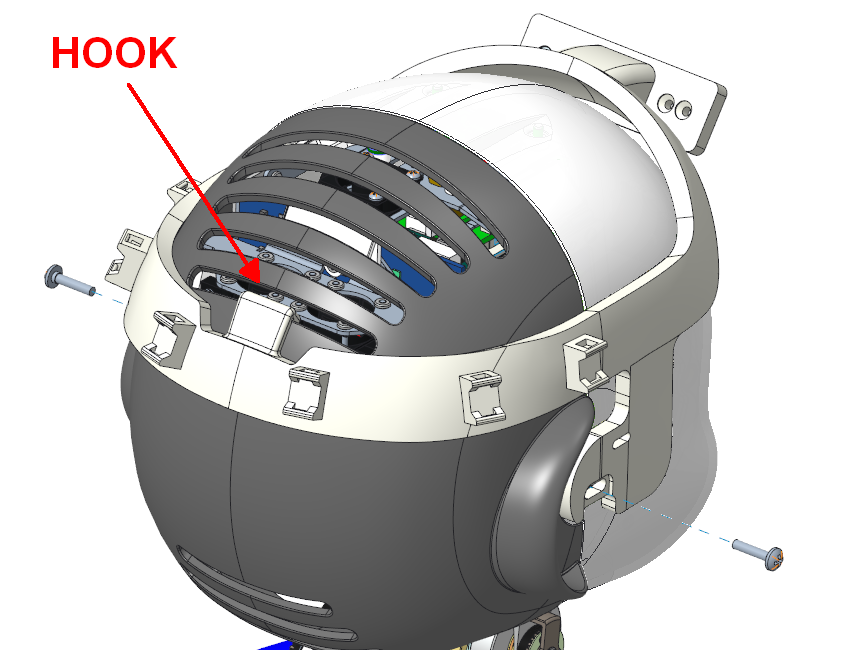
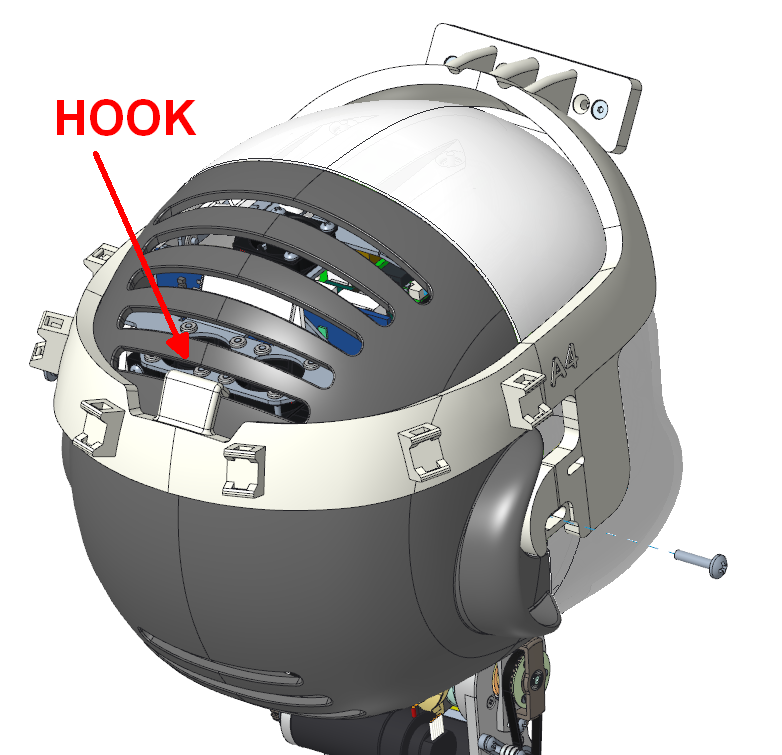
replacing pictures

Changed region(s): [[0.0307, 0.0308, 0.9514, 1.0], [0.8286, 0.8308, 0.9207, 0.8923], [0.1228, 0.2154, 0.1535, 0.2769]]

diff --git a/docs/upgrade_kits/realsense_holder/support.md b/docs/upgrade_kits/realsense_holder/support.md
@@ -25,7 +25,7 @@ This upgrade kit is meant to improve iCub's 3D perception and grasping capabilit
 
 |  Pieces |     Alias        | Rev.|  Description       |  Cod. Wgst |
 |   :---: |    :-----------: |:---:|     :------------: |   :---:   |
-|    1   |	IG_027_P_002  | A3 |iCub Head, RealSense setup, holder | 	15362 |
+|    1   |	IG_027_P_002  | A4 |iCub Head, RealSense setup, holder | 	15362 |
 |    2   |	V3-8--_-_U5933_C  |   | screw – M 3 x 8 – UNI5933 , DIN7991  , ISO10642 – SS A2 – hexagon socket countersunk head  | 2468 |
 |     2  | V4-16--_-_ISO7045_CZ|   | screw - M4 x 16 - UNI7687 , DIN7985A , ISO7045 - SS A2 - pozidriv cross recessed pan head |11963|
 
